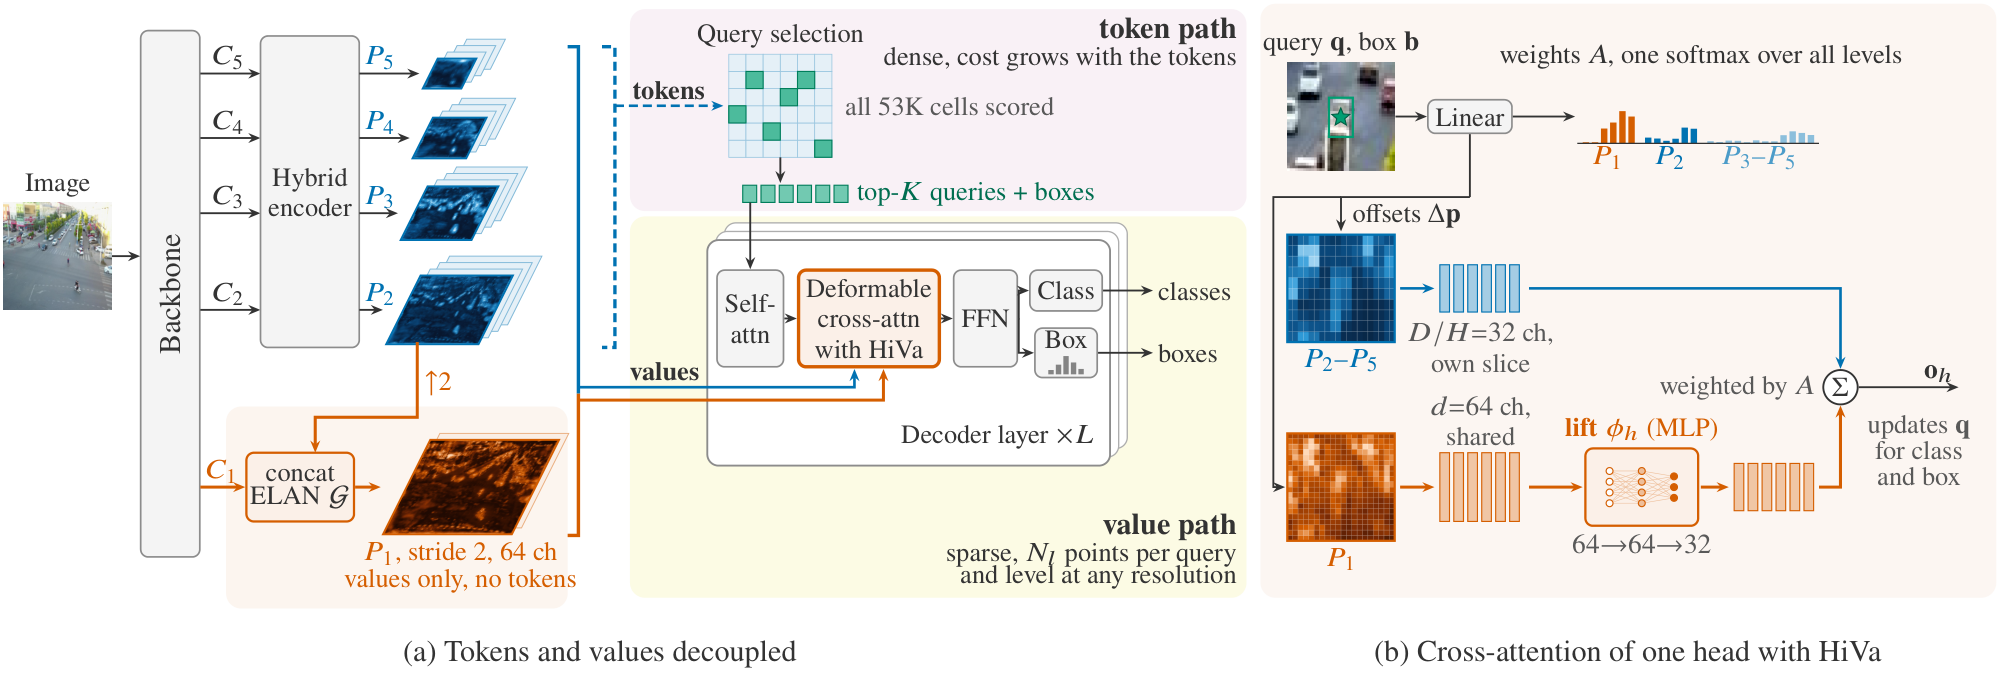
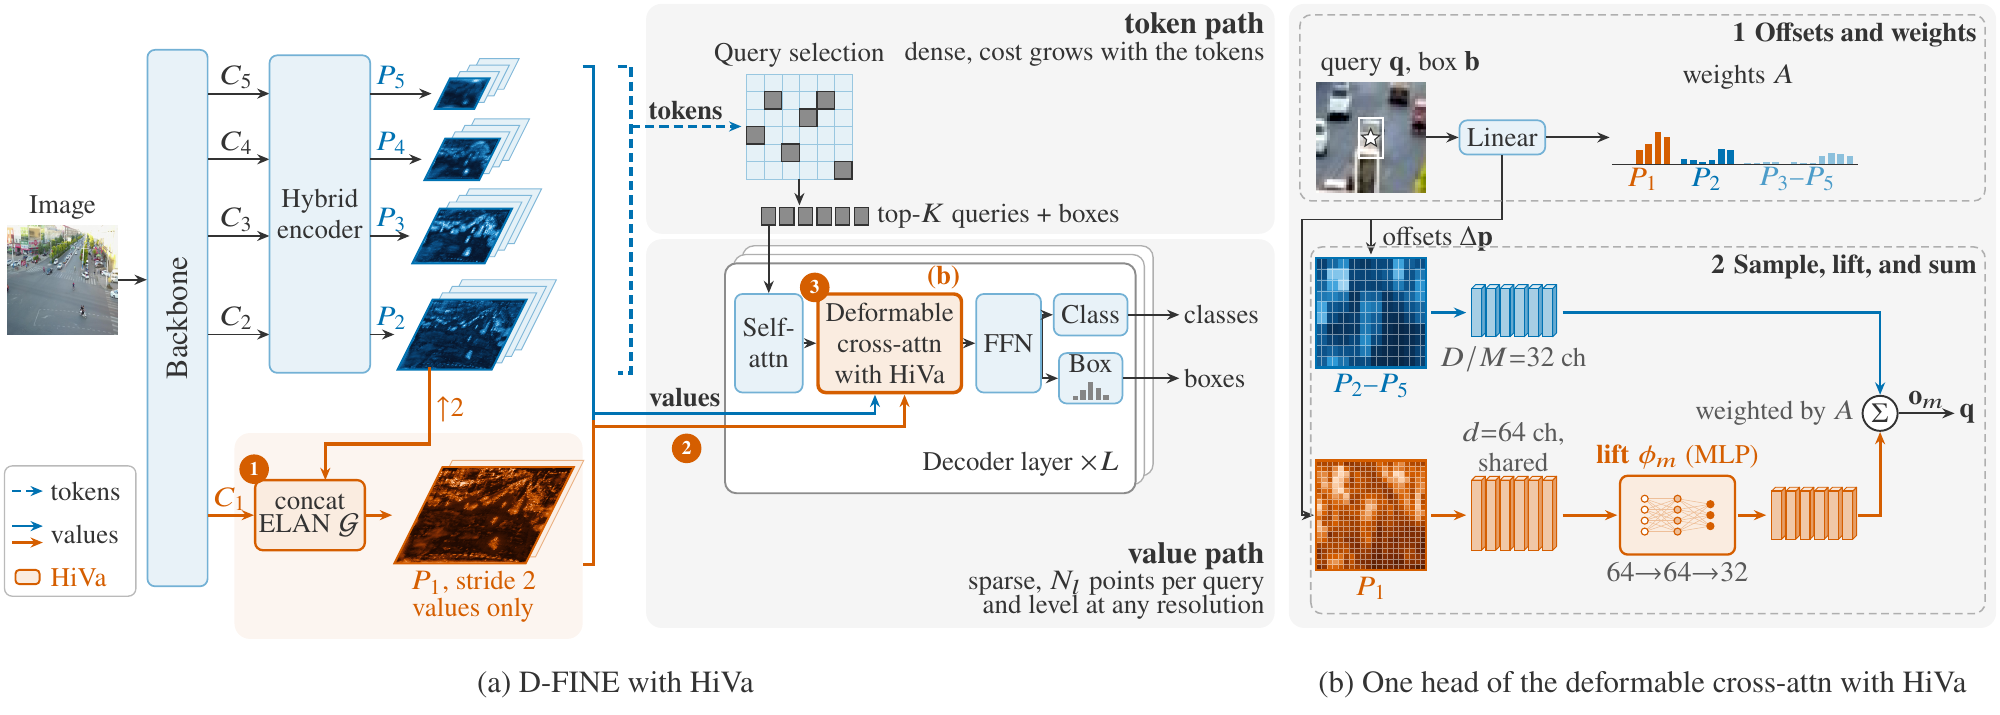
README: the method introduced through sampling collapse, with the current teaser and architecture figures of the paper

diff --git a/README.md b/README.md
@@ -7,15 +7,18 @@ Official code and checkpoints of **Fine Values, Coarse Tokens: High-Resolution V
 </p>
 <p align="center"><em>Values at stride 2 instead of stride 4 improve both the localization and the classification of tiny objects (D-FINE vs. HiVa-DETR on VisDrone).</em></p>
 
-High-Resolution Value Sampling (HiVa) gives the decoder of a DETR a stride-2 feature map (P1) that is read as values only.
-P1 is built from the backbone's stem and the stride-4 pyramid level, and every decoder layer samples it in its deformable cross-attention.
-It never enters the encoder or the query selection, so the number of tokens is unchanged.
+The sampling points of a decoder head on a tiny object tend to fall within a single cell of the finest pyramid level of a DETR, so the head reads nearly identical features at all of its points.
+We term this sampling collapse.
+High-Resolution Value Sampling (HiVa) alleviates it by decoupling the resolution of the values from that of the tokens.
+It builds a lightweight stride-2 level P1 from the backbone's stem feature and P2, and feeds P1 to the decoder solely as values.
+Every decoder layer samples P1 jointly with P2 to P5 in its deformable cross-attention, while the encoder and the query selection keep their tokens unchanged.
+This costs about one twentieth of adding P1 as tokens.
 HiVa-DETR applies HiVa to D-FINE.
 
 <p align="center">
   <img src="assets/architecture.png" width="100%" alt="Architecture of HiVa">
 </p>
-<p align="center"><em>(a) Tokens and values decoupled: P1 joins the values of the decoder only. (b) The cross-attention of one head with HiVa.</em></p>
+<p align="center"><em>(a) D-FINE with HiVa, whose parts are drawn in vermilion and numbered. HiVa (1) builds the stride-2 level P1 from the stem feature and P2, (2) feeds P1 to the decoder solely as values, and (3) samples it jointly with P2 to P5 in the deformable cross-attention. (b) One head of that deformable cross-attention with HiVa.</em></p>
 
 This repository currently contains the inference and evaluation code and the trained checkpoints.
 The training code will be released upon acceptance of the paper.
